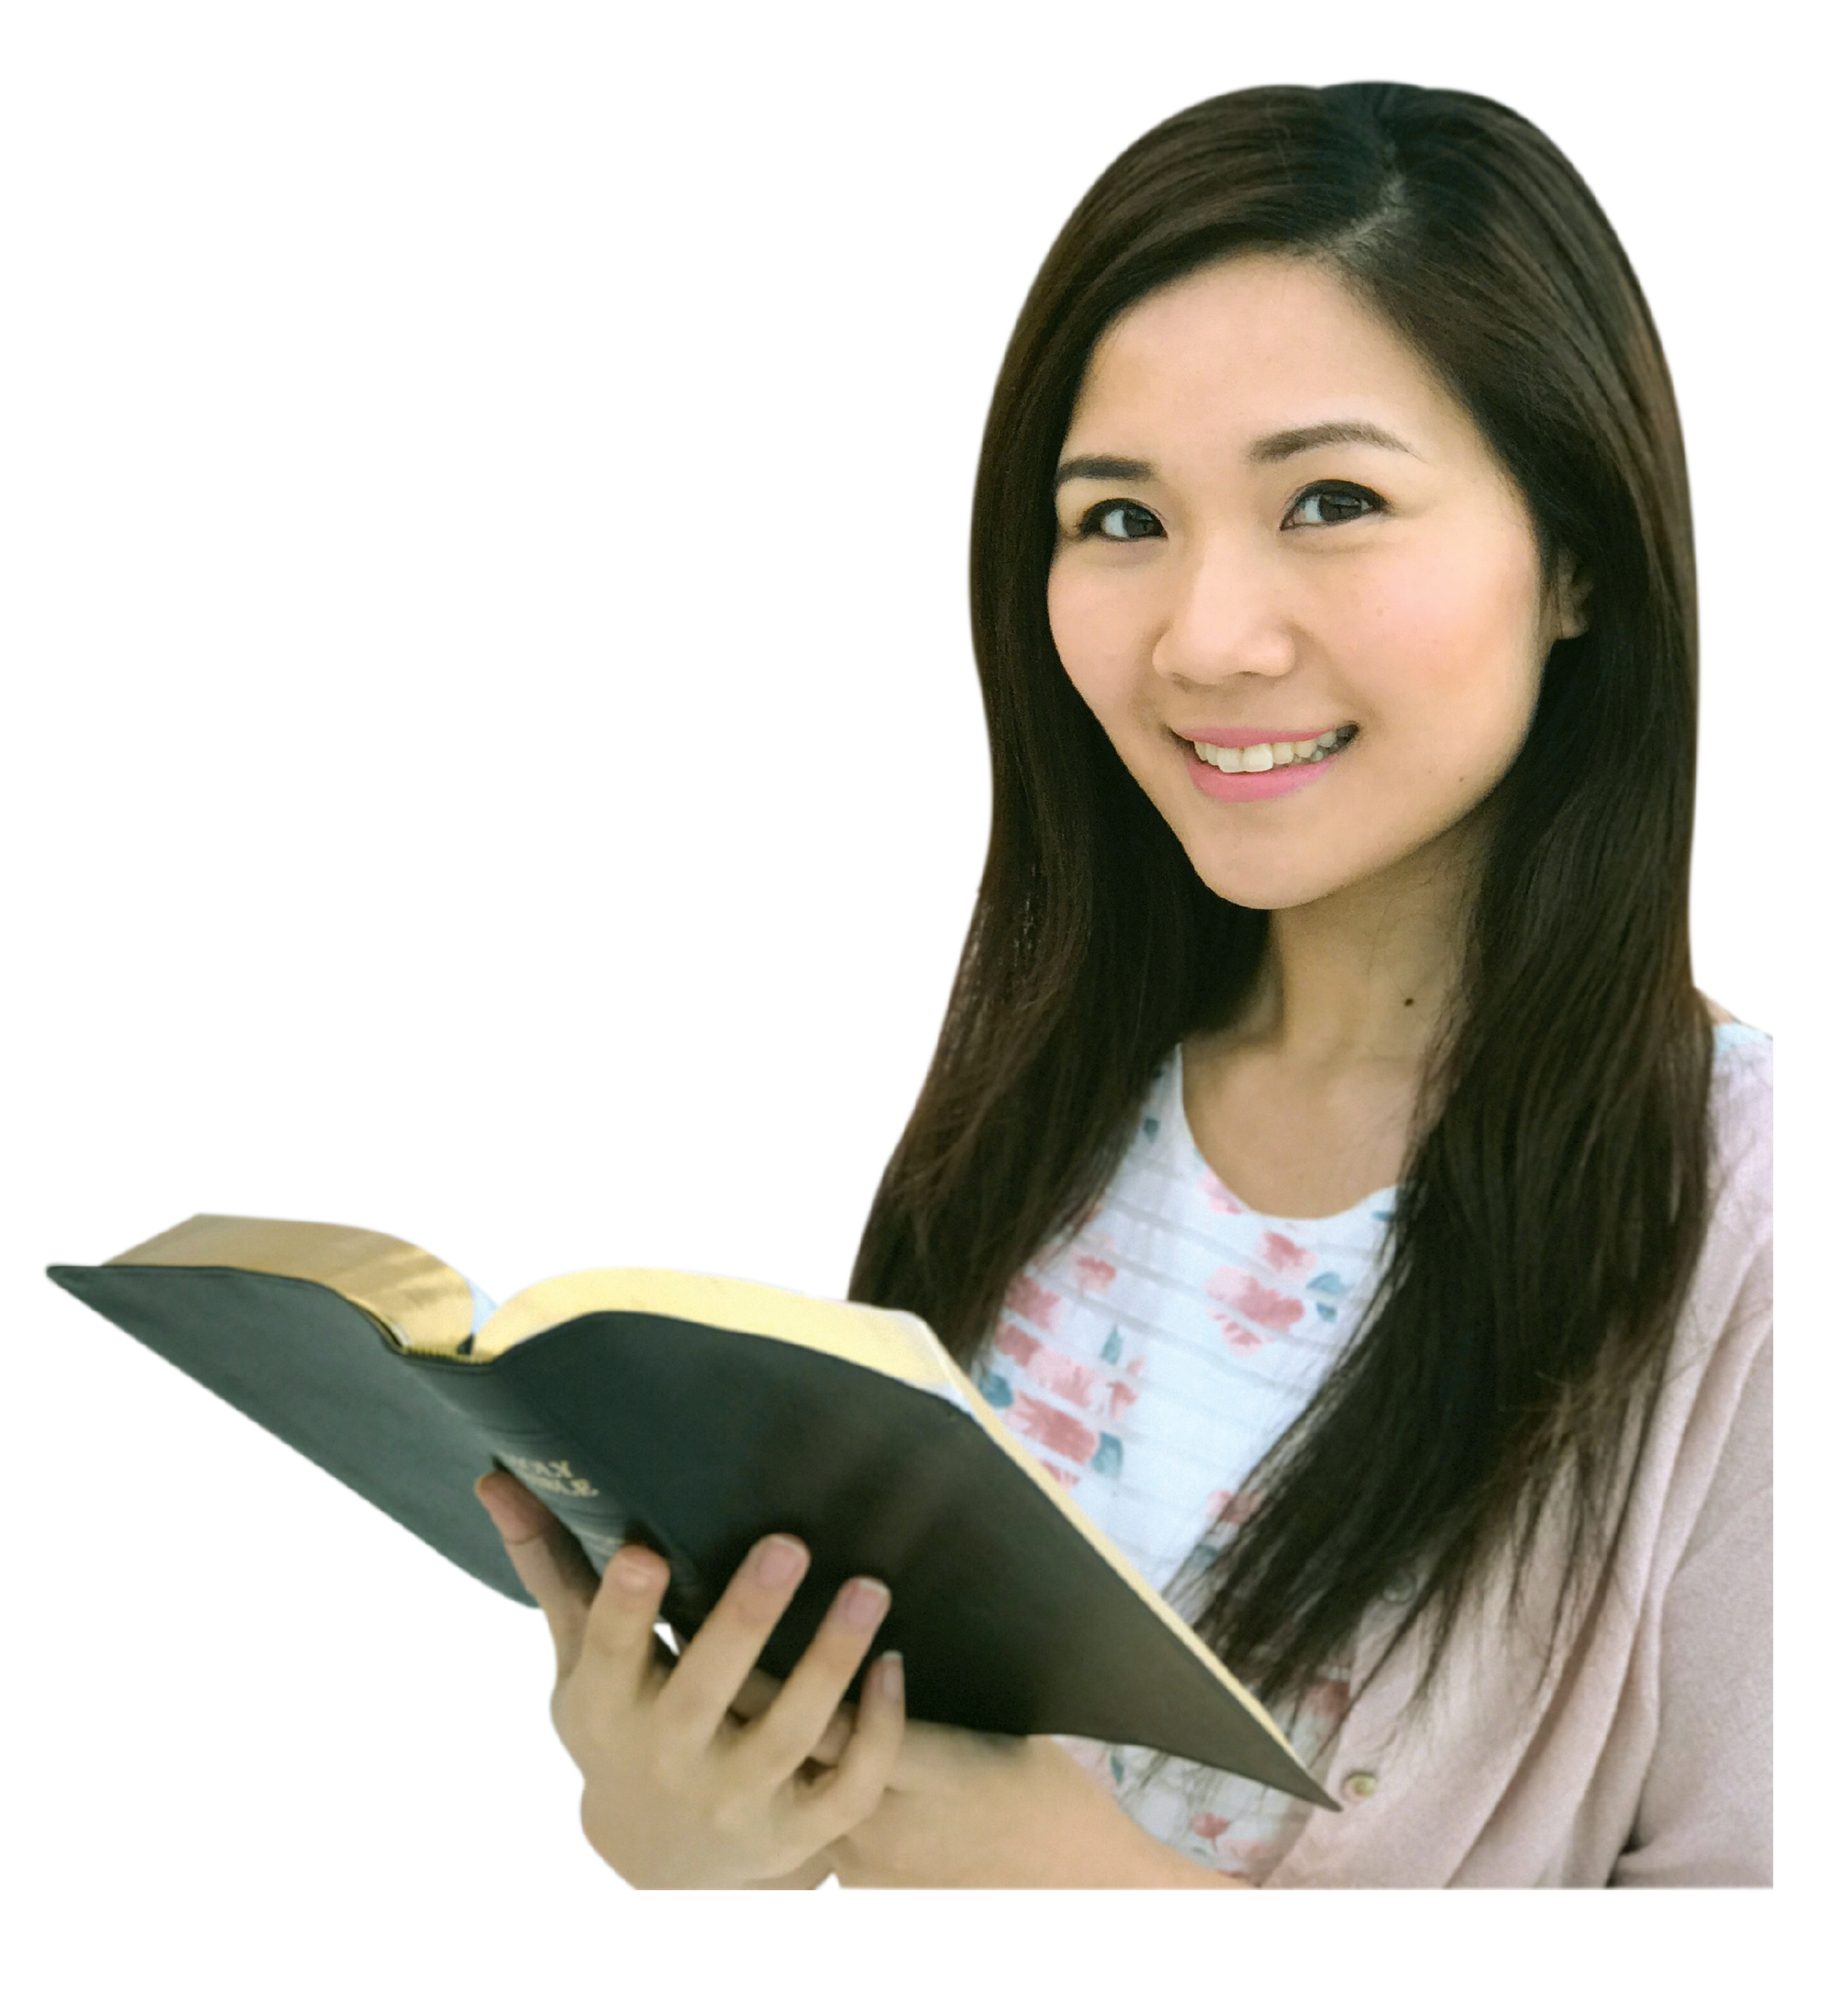
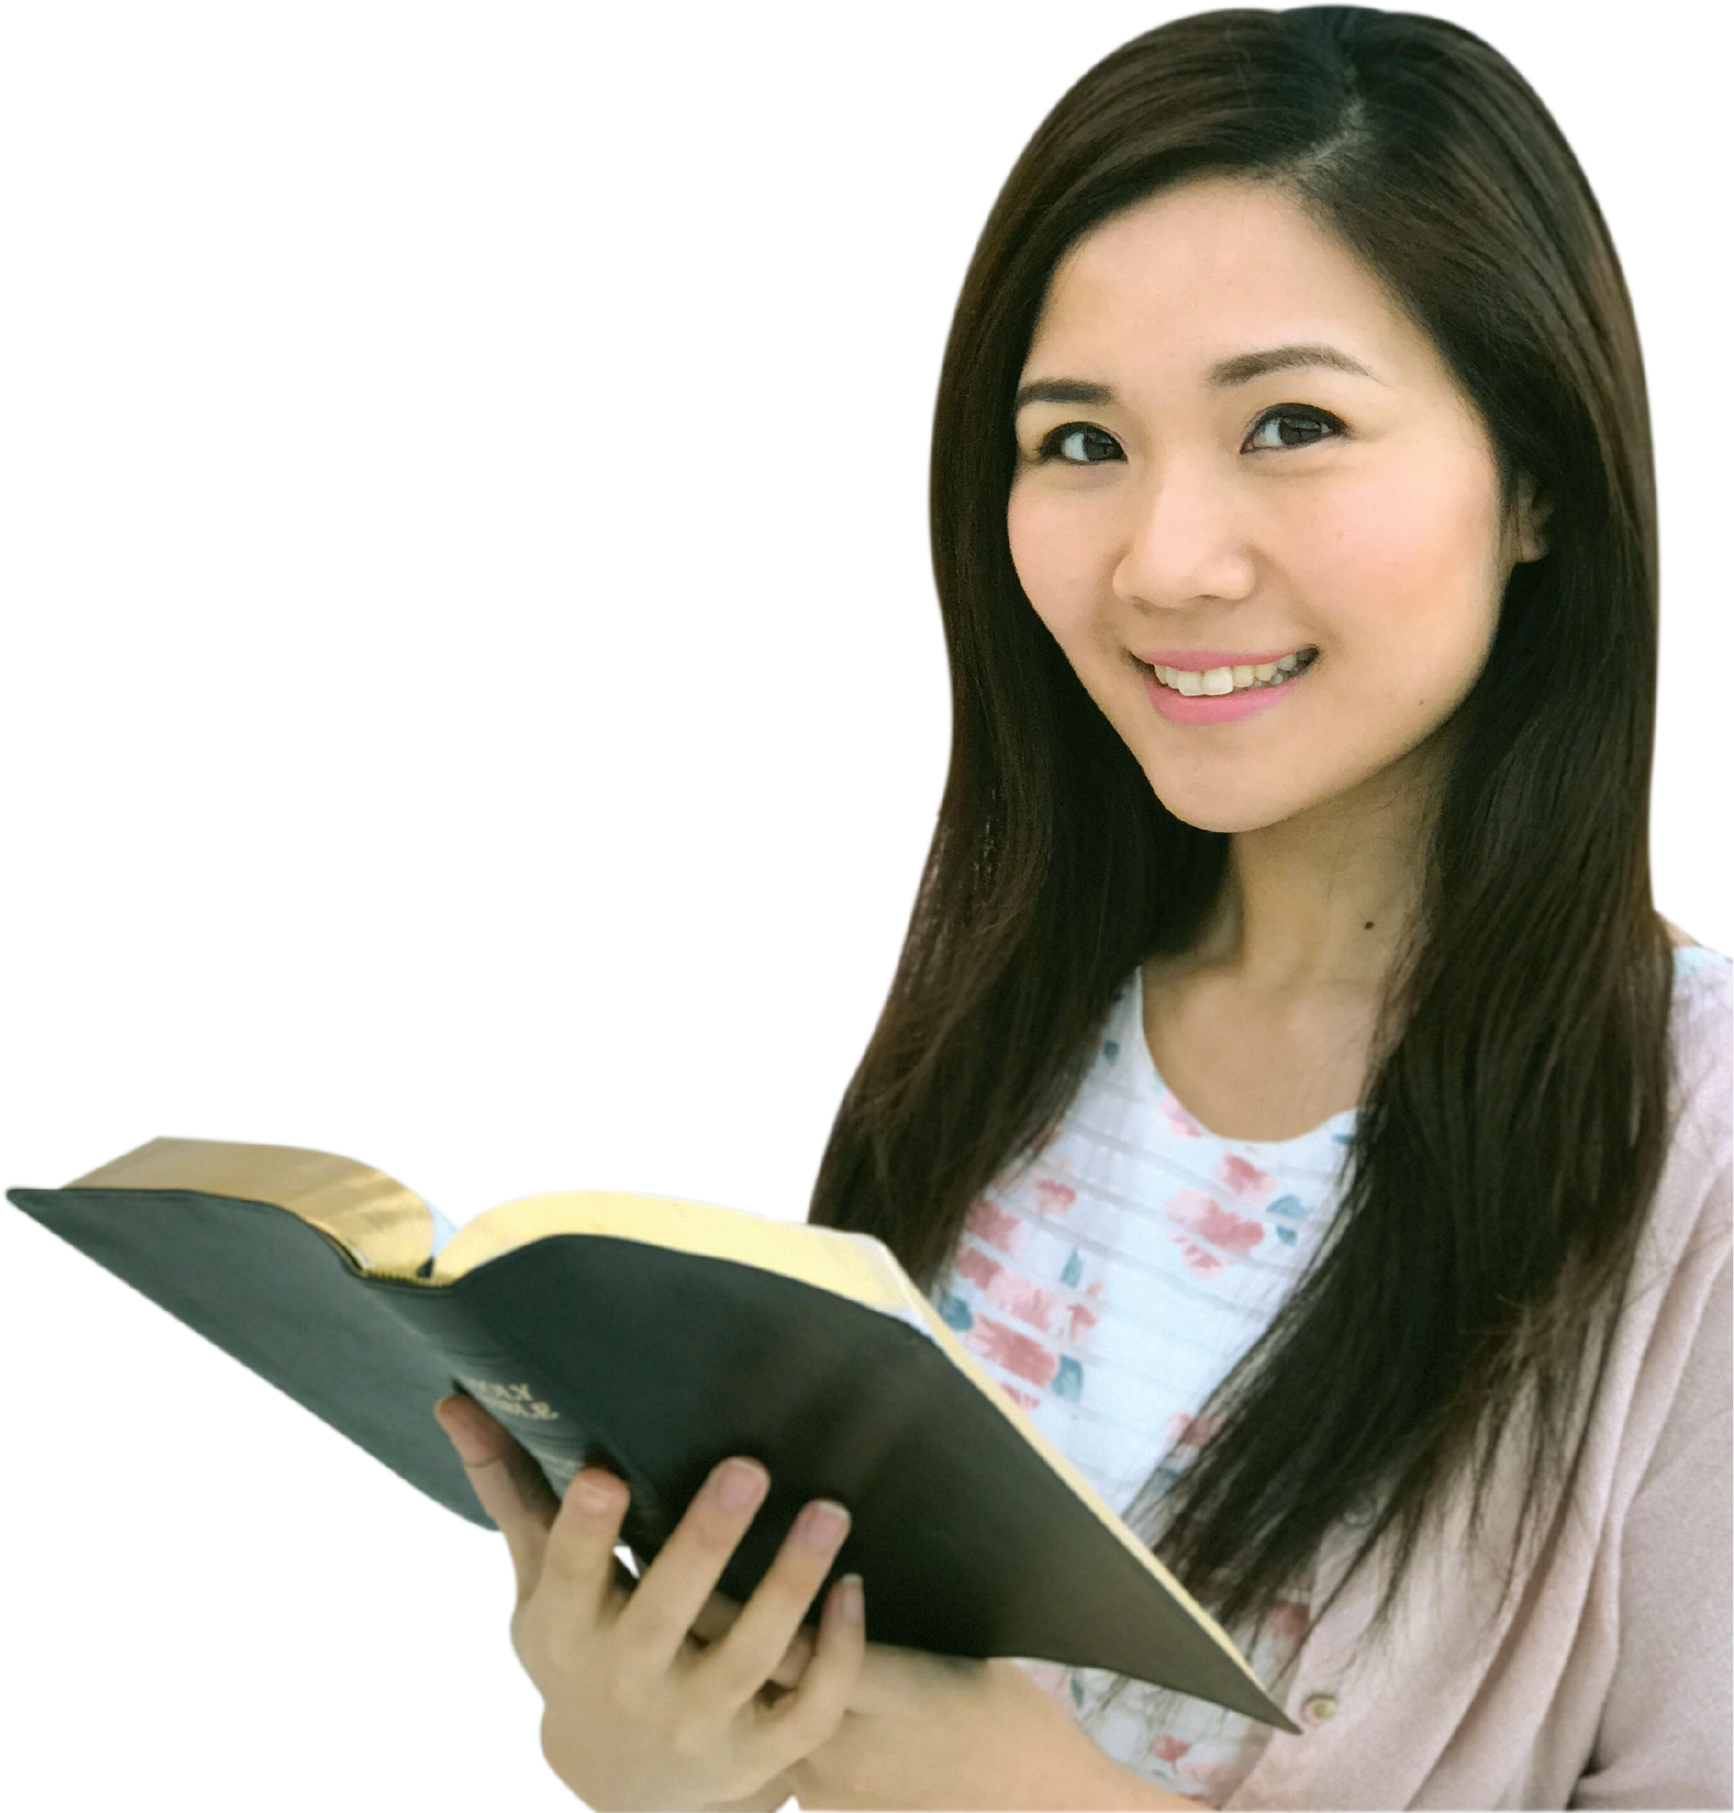
Fixed weird layout issues

diff --git a/src/emsi-app/emsi-app.html b/src/emsi-app/emsi-app.html
@@ -4,7 +4,6 @@
 <link rel="import" href="../../bower_components/iron-flex-layout/iron-flex-layout.html">
 <link rel="import" href="../../bower_components/iron-flex-layout/classes/iron-flex-layout.html">
 
-
 <!-- custom elements -->
 <link rel="import" href="emsi-toolbar-desktop.html">
 <link rel="import" href="emsi-toolbar-mobile.html">
@@ -31,17 +30,18 @@
         min-height: 800px;
         background-color: #BBB;
         position: absolute;
-        margin: 0;
-        padding: 0;
-        width:100%;
         z-index: -12;
         color: white;
-        top:80px;
+        top:60pt;
+        width:100%;
+        padding: 0;
+        margin: 0;
       }
 
       #moreContent {
         padding: 0;
         margin: 0;
+        width: 100%;
       }
     </style>
 
@@ -52,7 +52,6 @@
 
     <iron-media-query query="(min-width: 1000px)" query-matches="{{isDesktop}}"></iron-media-query>
     <iron-media-query query="(max-width: 800px)" query-matches="{{isTwoColumns}}"></iron-media-query>
-
 
     <template is="dom-if" if="[[isDesktop]]">
       <emsi-toolbar-desktop> </emsi-toolbar-desktop>
@@ -70,10 +69,13 @@
       <emsi-church-paper-card user-location="79 Hiawatha Blvd"> </emsi-church-paper-card>
       <emsi-church-collection query-type="user" continent="North America" region="East Coast"> </emsi-church-collection>
       -->
+      
       <emsi-homepage-landingscreen> </emsi-homepage-landingscreen>
+
       <emsi-homepage-bibleverse> </emsi-homepage-bibleverse>
 
       <div id="moreContent" class="layout horizontal wrap">
+        <!-- If small screen, show this... -->
         <template is="dom-if" if="[[isTwoColumns]]">
           <emsi-homepage-content title="ABOUT US" content="Headquartered in Towaco, New Jersey U.S.A (36 Alpine Road, Towaco, NJ 07082). EMSI was founded by Pastor Moses Yang. EMSI has branches in 4 continents: Europe, North America, Asia, and Africa. EMSI is made up of the following organizations - Evangelical Bible Institute, Christian Evangelical Mission, and Christian Evangelical Overseas Outreach."> </emsi-homepage-content>
           <emsi-homepage-picture image-url="src/AboutUs_ImageSquare.jpg"> </emsi-homepage-picture>
@@ -84,6 +86,8 @@
           <emsi-homepage-content title="SEMINARY" content="The seminary was established by Rev. Moses Yang in 1975. Its mission is to train Bible students to become full time ministers of od to spread Gospel; and to help laymen grow spiritually so to serve God fervently. EBI's training emphasizes four expectations from the students: to walk in faith in their life and service; to bring forth spiritual children themselves; to preach well; and to lead Bible Study classes so that believers will be edified."> </emsi-homepage-content>
           <emsi-homepage-picture image-url="src/Seminary_ImageSquare.jpg"> </emsi-homepage-picture>
         </template>
+
+        <!-- If large screen, show this... -->
         <template is="dom-if" if="[[!isTwoColumns]]">
           <emsi-homepage-content title="ABOUT US" content="Headquartered in Towaco, New Jersey U.S.A (36 Alpine Road, Towaco, NJ 07082). EMSI was founded by Pastor Moses Yang. EMSI has branches in 4 continents: Europe, North America, Asia, and Africa. EMSI is made up of the following organizations - Evangelical Bible Institute, Christian Evangelical Mission, and Christian Evangelical Overseas Outreach."> </emsi-homepage-content>
           <emsi-homepage-picture image-url="src/AboutUs_ImageSquare.jpg"> </emsi-homepage-picture>
@@ -95,8 +99,8 @@
           <emsi-homepage-content title="SEMINARY" content="The seminary was established by Rev. Moses Yang in 1975. Its mission is to train Bible students to become full time ministers of od to spread Gospel; and to help laymen grow spiritually so to serve God fervently. EBI's training emphasizes four expectations from the students: to walk in faith in their life and service; to bring forth spiritual children themselves; to preach well; and to lead Bible Study classes so that believers will be edified."> </emsi-homepage-content>
         </template>
       </div>
-      <emsi-footer> </emsi-footer>
 
+      <emsi-footer> </emsi-footer>
     </div>
 
   </template>

diff --git a/src/emsi-app/emsi-homepage-landingscreen.html b/src/emsi-app/emsi-homepage-landingscreen.html
@@ -2,16 +2,13 @@
 <link rel="import" href="../../bower_components/iron-image/iron-image.html">
 <link rel="import" href="../../bower_components/paper-button/paper-button.html">
 
-<link href="https://fonts.googleapis.com/css?family=PT+Sans" rel="stylesheet">
-
 <dom-module id="emsi-homepage-landingscreen">
 	<template>
 		<style is="custom-style">
 			:host {
 				display: block;
 				height: 80vh;
-				margin: 0;
-				padding: 0;
+				width: 100%;
 			}
 
 			@font-face {
@@ -27,25 +24,29 @@
 			#backgroundImage {
 				position: absolute;
 				height: 110vh;
-				width: 100vw;
+				width: 100%;
 				z-index: -10;
-				top:0px;
+				top: 0px;
 				filter: brightness(90%);
 			}
 
 			#personImage {
 				position: absolute;
 				z-index: -9;
-				right:-15px;
+				right:-0;
 				top: 5vh;
 				width: 80vh;
-				height: 80vh;
+				height: 90vh;
+			}
+
+			.container {
+				width: 100%;
+				margin-top: 25vh;
 			}
 
 			#title {
 				font-size: 28pt;
 				margin-left: 5vw;
-				margin-top: 25vh;
 				letter-spacing: 0px;
 			}
 
@@ -79,15 +80,14 @@
 			@media screen and (max-width: 1000px) {
 				#title {
 					margin-left: 2vw;
-					margin-top: 12vh;
 					font-size: 20pt;
-					padding-left:5vw;
+					padding-left: 5vw;
 					padding-right: 5vw;
 				}
 
 				#subtitle {
 					margin-left: 2vw;
-					margin-top: 4vh;
+					margin-top: 5vh;
 					font-size: 20px;
 					padding-left:5vw;
 					padding-right: 5vw;
@@ -95,7 +95,7 @@
 
 				paper-button {
 					margin-left: 7vw;
-					margin-top: 4vh;
+					margin-top: 5vh;
 					padding-left:5vw;
 					padding-right: 5vw;
 					font-size: 15px;
@@ -104,7 +104,11 @@
 				#personImage {
 					top: 15vh;
 					width: 70vh;
-					height: 70vh;
+					height: 80vh;
+				}
+
+				.container {
+					margin-top: 20vh;
 				}
 			}
 
@@ -113,19 +117,22 @@
 					width: 0px;
 					height: 0px;
 				}
+
+
 			}
 
 
 		</style>
 
-	  <iron-image sizing="cover" id="personImage" preload src="../DonnaPic_Cropped-01.png"></iron-image>
-		
-      <iron-image id="backgroundImage" style="background-color: black;" sizing="cover" preload src="../MainSanctuary_ImageBlurredFINAL.jpg"></iron-image>
+		<iron-image sizing="cover" id="personImage" preload src="../DonnaPic_Cropped-01.png"></iron-image>
 
-      <div id="title" class="homepageText"> EVANGELICAL MISSION & <br> SEMINARY INTERNATIONAL </div>
-      <div id="subtitle" class="homepageText"> Spreading the gospel to the chinese community  </div>
-      <paper-button raised> Find a Church </paper-button>
+		<iron-image id="backgroundImage" style="background-color: black;" sizing="cover" preload src="../MainSanctuary_ImageBlurredFINAL.jpg"></iron-image>
 
+		<div class="container">
+			<div id="title" class="homepageText"> EVANGELICAL MISSION & <br> SEMINARY INTERNATIONAL </div>
+			<div id="subtitle" class="homepageText"> Spreading the gospel to the chinese community  </div>
+			<paper-button raised> Find a Church </paper-button>
+		</div>
 
 	</template>
 	<script>

diff --git a/src/emsi-app/emsi-homepage-bibleverse.html b/src/emsi-app/emsi-homepage-bibleverse.html
@@ -1,15 +1,12 @@
 <link rel="import" href="../../bower_components/polymer/polymer.html">
 <link rel="import" href="../../bower_components/paper-button/paper-button.html">
 
-<link href="https://fonts.googleapis.com/css?family=PT+Sans" rel="stylesheet">
-
 <dom-module id="emsi-homepage-bibleverse">
 	<template>
 		<style>
 			:host {
 				display: block;
-				margin: 0;
-				padding: 0;
+				width: 100%;
 			}
 
 			@font-face {
@@ -45,8 +42,9 @@
 				padding-right: 20px;
 				padding-top: 16px;
 				padding-bottom: 16px;
-				right:-5px;
+				right:0px;
 				top:91vh;
+				margin-right: 0;
 			}
 
 			@media screen and (max-width: 1000px) {
@@ -57,11 +55,10 @@
 				}
 
 				paper-button {
-					font-size: 15px;
 					padding-left: 10px;
 					padding-right: 10px;
-					right:-5px;
-					top:78vh;
+					right:0px;
+					top:86vh;
 				}
 			}
 		</style>

diff --git a/src/emsi-app/emsi-homepage-content.html b/src/emsi-app/emsi-homepage-content.html
@@ -1,14 +1,15 @@
 <link rel="import" href="../../bower_components/polymer/polymer.html">
 <link rel="import" href="../../bower_components/paper-button/paper-button.html">
 
-<link href="https://fonts.googleapis.com/css?family=PT+Sans" rel="stylesheet">
-
 <dom-module id="emsi-homepage-content">
 	<template>
 		<style>
 			:host {
 				display: block;
-				margin-top: -0.8vh;
+				margin: 0;
+				padding: 0;
+				margin-bottom: -1vh;
+				width:50%;
 			}
 
 			@font-face {
@@ -23,8 +24,8 @@
 
 
 			.container {
-				width:49vw;
-				height:49vw;
+				width:100%;
+				height: 50vw;
 				background-color: white;
 			}
 
@@ -65,8 +66,11 @@
 
 			@media screen and (max-width: 800px) {
 				.container {
-					width:98.5vw;
-					height:98.5vw
+					height:100vw
+				}
+
+				:host {
+					width: 100%;
 				}
 			}
 

diff --git a/src/emsi-app/emsi-footer.html b/src/emsi-app/emsi-footer.html
@@ -12,7 +12,6 @@
 		<style>
 			:host {
 				display: block;
-				margin-top:-1vh;
 			}
 
 			@font-face {
@@ -37,7 +36,7 @@
 				right: 5vw;
 				bottom: 3vh;
 				font-family: MyriadProRegular;
-				font-size: 15px;
+				font-size: 12pt;
 				padding-left: 5vw;
 			}
 
@@ -49,6 +48,7 @@
 				font-family: MyriadProSemiBold;
 				font-size: 12pt;
 				color: rgba(255, 255, 255, 0.5);
+				text-decoration: underline;
 			}
 
 			.user:hover {

diff --git a/src/emsi-app/emsi-homepage-picture.html b/src/emsi-app/emsi-homepage-picture.html
@@ -6,18 +6,24 @@
 		<style>
 			:host {
 				display: block;
-				margin-top: -0.8vh;
+				margin: 0;
+				padding: 0;
+				margin-bottom: -1vh;
+				width: 50%;
 			}
 
 			#image {
-				width:49vw;
-				height:49vw
+				width: 100%;
+				height: 50vw;
 			}
 
 			@media screen and (max-width: 800px) {
 				#image {
-					width:98.5vw;
-					height:98.5vw
+					height: 100vw;
+				}
+
+				:host {
+					width: 100%;
 				}
 			}
 		</style>
